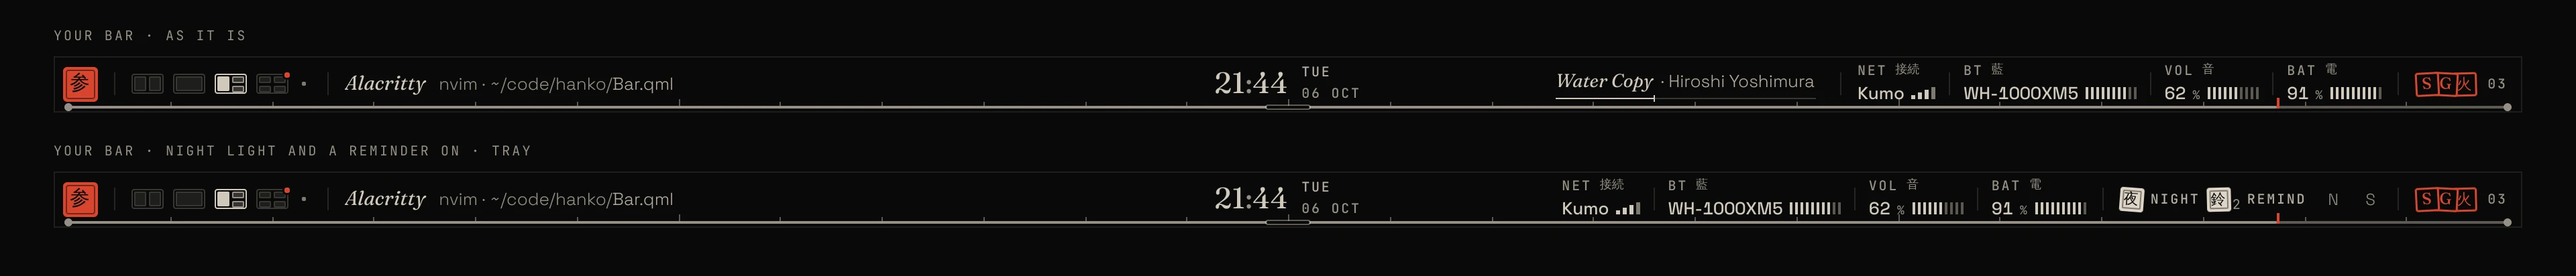
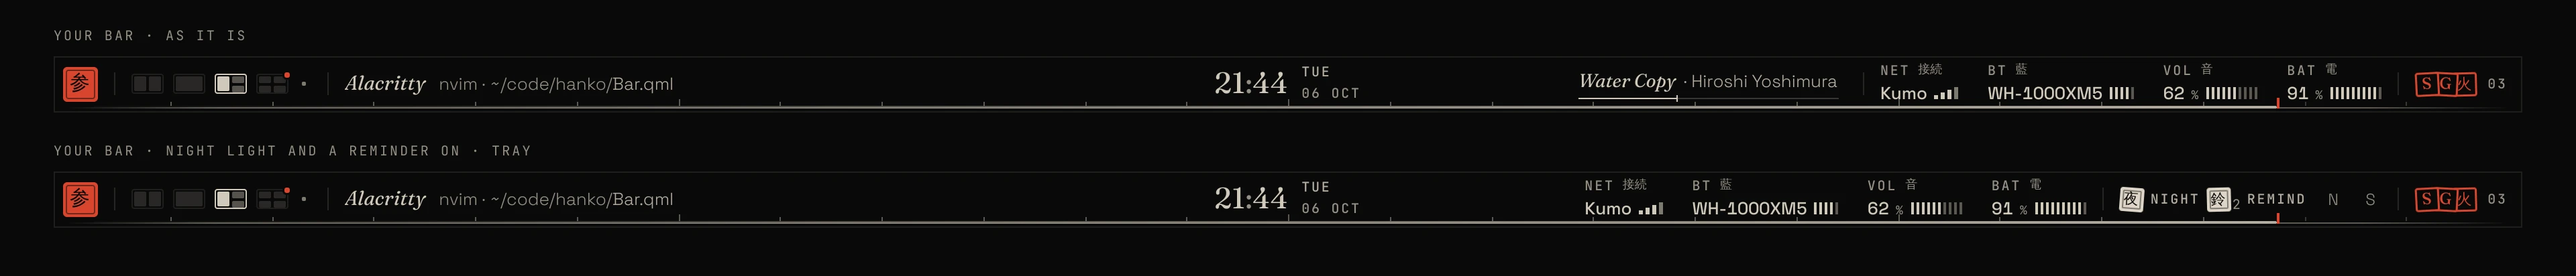
Bar, a more natural pass: ink-stroke day rule, readings grouped by space
The rodrule's hours to come are a hairline that fades at both ends and
the spent day is one stroke darkening toward now; ticks ahead are
lighter and the grip shows only when reached for. Readings sit as one
group held by space instead of hairlines, the BT meter is half length,
and workspace windows are solid tiles without outlines.

Claude-Session: https://claude.ai/code/session_01Tp9gk1FgjZsMjeqrzW7SN3

diff --git a/bar/Edge.qml b/bar/Edge.qml
@@ -107,19 +107,42 @@ Item {
       width: root.span.width
       height: 2
 
+      // rod: a roller, solid end to end. rodrule: the hours still to come
+      // are a hairline that thins away at both ends, so the bar's foot ends
+      // like a brush lifting, not like a cut.
       Rectangle {
+        visible: root.mode === "rod"
         anchors.fill: parent
         radius: 1
         color: drag.pressed ? Ink.ink : Ink.lineStrong
       }
+      Rectangle {
+        visible: root.mode === "rodrule"
+        y: 1
+        width: parent.width
+        height: 1
+        gradient: Gradient {
+          orientation: Gradient.Horizontal
+          GradientStop { position: 0; color: Ink.alpha(Ink.bone, 0) }
+          GradientStop { position: 0.06; color: drag.pressed ? Ink.ink : Ink.lineStrong }
+          GradientStop { position: 0.94; color: drag.pressed ? Ink.ink : Ink.lineStrong }
+          GradientStop { position: 1; color: Ink.alpha(Ink.bone, 0) }
+        }
+      }
 
-      // The spent part of the day, wound onto the rod.
+      // The spent part of the day as one stroke of ink: faint where the
+      // morning went by, darkest where it reaches now, as fresh ink is.
       Rectangle {
         visible: root.mode === "rodrule"
         width: E.at(root.dayFraction, rod.width, 0)
         height: rod.height
         radius: 1
-        color: Ink.inkMuted
+        gradient: Gradient {
+          orientation: Gradient.Horizontal
+          GradientStop { position: 0; color: Ink.alpha(Ink.bone, 0) }
+          GradientStop { position: 0.35; color: Ink.alpha(Ink.bone, 0.35) }
+          GradientStop { position: 1; color: Ink.inkDim }
+        }
       }
 
       Repeater {
@@ -131,13 +154,14 @@ Item {
           y: -height
           width: 1
           height: rodTick.modelData.major ? 5 : 3
-          color: Ink.lineStrong
+          // Hours not yet come are marked more lightly than those gone.
+          color: rodTick.modelData.fraction <= root.dayFraction ? Ink.lineStrong : Ink.line
         }
       }
 
-      // End caps.
+      // End caps (the roller only; rodrule's ends fade out instead).
       Repeater {
-        model: 2
+        model: root.mode === "rod" ? 2 : 0
         Rectangle {
           id: cap
           required property int index
@@ -159,8 +183,11 @@ Item {
       }
 
       // The grip: a small paper plate on the rod's centre that lifts when
-      // the pointer comes near.
+      // the pointer comes near. On the rodrule it only shows then: a handle
+      // you need when you reach for it, not one drawn all day.
       Rectangle {
+        opacity: root.mode === "rod" || drag.containsMouse || drag.pressed ? 1 : 0
+        Behavior on opacity { enabled: !Motion.still; NumberAnimation { duration: 160 } }
         x: Math.round((rod.width - width) / 2)
         y: drag.containsMouse || drag.pressed ? -3 : -1
         width: 34

diff --git a/bar/StatusRow.qml b/bar/StatusRow.qml
@@ -104,10 +104,12 @@ Item {
         // Cells are ruled off by hairlines; numerals by a middle dot.
         Item {
           visible: slot.index > 0 && root.mode !== "glyphs"
-          width: root.mode === "numerals" ? Type.px(20) : root.ruled ? Type.px(10) * 2 + 1 : Type.px(14)
+          // Readings are one group, held together by space (proximity), not
+          // fenced by lines: the bar's rules are kept for its zones.
+          width: root.mode === "numerals" ? Type.px(20) : root.mode === "cells" ? Type.px(22) : root.ruled ? Type.px(10) * 2 + 1 : Type.px(14)
           height: parent.height
           Rectangle {
-            visible: root.mode === "cells" && root.ruled
+            visible: false
             anchors.horizontalCenter: parent.horizontalCenter
             anchors.verticalCenter: parent.verticalCenter
             width: 1
@@ -346,7 +348,9 @@ Item {
     Ticks {
       anchors.verticalCenter: big.verticalCenter
       visible: root.ticksOn && value.r.level >= 0
-      count: root.tickCount
+      // A device's charge is a side note to its name: half a meter, so the
+      // BT cell doesn't outweigh the volume and battery it sits with.
+      count: value.r.key === "bluetooth" ? Math.round(root.tickCount / 2) : root.tickCount
       level: value.r.level
     }
     SignalBars {

diff --git a/bar/Workspaces.qml b/bar/Workspaces.qml
@@ -175,7 +175,7 @@ Item {
         radius: 2
         color: "transparent"
         border.width: 1
-        border.color: lc.on ? Ink.ink : Ink.line
+        border.color: lc.on ? Ink.ink : Ink.lineSoft
 
         Repeater {
           model: lc.ws ? lc.ws.windows : []
@@ -187,9 +187,10 @@ Item {
             width: Math.max(1, Math.round(modelData.w * (frame.width - 2)) - 2)
             height: Math.max(1, Math.round(modelData.h * (frame.height - 2)) - 2)
             radius: 1
-            color: live && modelData.focused ? Ink.ink : live ? Ink.alpha(Ink.ink, 0.22) : Ink.lineSoft
-            border.width: 1
-            border.color: live && modelData.focused ? Ink.ink : live ? Ink.inkMuted : Ink.line
+            // Windows are solid tiles, not outlined boxes: the page you are
+            // on in ink, the others a faint print of their layout.
+            color: live && modelData.focused ? Ink.ink : live ? Ink.alpha(Ink.ink, 0.38) : Ink.alpha(Ink.ink, 0.16)
+            border.width: 0
           }
         }
       }

diff --git a/docs/HANDOFF.md b/docs/HANDOFF.md
@@ -2,7 +2,7 @@
 
 This file is the single source a new Claude session (or a person) reads to pick up Hanko exactly where it was left. It covers the brief, every branch, the design, the Omarchy plugin contract, the code, the dev environment, the conventions, what each finished phase built, and detailed instructions for every remaining phase.
 
-Last updated: 2026-10-08, after the bar's game-HUD feedback (counters, meters, change highlight), following the Classic bar's polish. Kata K1–K7 are done; next is testing it all on hardware (§12) and whatever the user asks for.
+Last updated: 2026-10-08, after the bar's natural pass (ink-stroke rodrule, grouped readings, tile workspaces), following its game-HUD feedback. Kata K1–K7 are done; next is testing it all on hardware (§12) and whatever the user asks for.
 
 **Read order for a fresh session:** this file, then [ROADMAP.md](ROADMAP.md), then [COMPONENTS.md](COMPONENTS.md) (the full spec of every option), then the code. Keep this file current: update §9 (status) and §12 (known issues) at the end of every phase, in the same commit.
 
@@ -701,6 +701,13 @@ What was taken from game UI (Ghost of Tsushima's minimal HUD, Persona and Metaph
 - **Needs you, twice**: a red reading (low battery, offline) also breathes slowly (opacity 1 ↔ 0.5, 1.1 s each way), so it isn't told by colour alone.
 - **Fix**: `SignalBars` anchored each bar to a parent a Repeater hadn't given it yet (a warning per bar, on every bar build); they are placed by `y` now.
 - **Test**: `tests/motion.py` drives `tests/harness/scenes/MotionProbe.qml` with motion on (renders are end frames) and checks that 40 → 62 passes through the numbers, lands on 62, a word fades through, and nothing warns. `tests/run` runs it, `--quick` too.
+
+### Bar, a more natural pass ✅ (asked for: "more research, make it look more natural and premium; position and style may change")
+Research behind it: NN/g on grouping by proximity instead of borders, Japanese *ma* and *kanso* in UI (space as an element, keep only what serves), menu-bar and ricing practice (one accent, reduced chrome), and game HUDs (show on demand). Changes, all Classic:
+- **Rodrule as ink** (`Edge.qml`): the hours to come are a 1 px hairline with 6% fades at both ends (no end caps on the rodrule; `rod` keeps its roller and caps); the spent part is a 2 px stroke going from nothing at midnight to `inkDim` at the now-notch; ticks ahead of now are `line`, behind it `lineStrong`; the grip appears only on hover or drag (still always on `rod`).
+- **Readings as one group** (`StatusRow`): in `cells` mode the hairlines between NET, BT, VOL, BAT are gone and a 22 px gap holds them (the zones' dividers stay, per `rules`). The BT cell's charge meter is half length.
+- **Workspace tiles** (`Workspaces` layout): windows are solid tiles (focused ink, others 38% on the active page, 16% elsewhere) without outlines; an inactive page's frame is `lineSoft`.
+- Harness `my-bar-light.json`; images `docs/revision2/images/r2-bar.webp`, `r2-bar-light.webp`.
 
 ## 10. Instructions for the remaining phase (10)
 

diff --git a/docs/ROADMAP.md b/docs/ROADMAP.md
@@ -116,6 +116,7 @@ Spec: `docs/kata/README.md` (also on `revision1`). Margin, Leaf and Shōji becom
 - ✅ **Revision 2 · Classic polished** (`d565381`, made on `revision2` and merged into `dev`; asked for: polish Classic as a senior would, without redesigning it): Classic's sheets get a folio and a faint kanji behind the title, an italic standfirst, underscored group heads, a hover bar on rows, a capped needle, a soft shadow, printer's crop marks, a colophon foot, and Time's ribbon without its doubled rule and with a red notch on today.
 - ✅ **Classic bar polish** (asked for on the user's own style): kanji indicator seals in ink with red kept for recording, tabular figures on readings and the clock, shorter softer rules, hover plates on cells, a visible urgent dot, and a fix for the blank the tray left beside the marks.
 - ✅ **Bar feedback, after game HUDs**: readings count up to new values, meters fill tick by tick, a changed reading's label inks up for a moment, cells press, and a red reading also breathes. `tests/motion.py` checks the motion.
+- ✅ **Bar, a more natural pass**: the rodrule drawn as a stroke of ink that fades at its ends and darkens toward now, readings grouped by space instead of hairlines, a half-length BT meter, workspace windows as solid tiles, and the rod's grip shown only when you reach for it.
 - ✅ **K7 · Settings › Design 意匠** (asked for without a Save button): the rail's first Bar page. Four design cards, each with its bar drawn live (Classic the Typeset bar); the mix named in a line, Back to the design and Surprise me; twelve borrow rows, each variant drawn small by its own part (`bar/settings/PartPreview.qml`), the current one ringed and a borrowed part marked; the touches (season with today's sekki, numerals, grain). The whole settings window now saves as you go: `Typeset.keep()` after every edit, `Typeset.history` and `undo()` (Ctrl+Z and the action bar's Undo), forgotten on close; Save and Revert are gone. Harness `design-settings.json`, `-light`, `-narrow`.
 
 ## Dev loop

diff --git a/docs/COMPONENTS.md b/docs/COMPONENTS.md
@@ -109,7 +109,7 @@ The glyph used by `stamp` is a separate free-text setting, `sealGlyph` (印 力 
 
 | Option | What it does | From |
 |---|---|---|
-| **`cells`** (default) | `NET 接続 / VOL 音 / BAT 電` label-over-value cells ruled off by hairlines. | Sheet |
+| **`cells`** (default) | `NET 接続 / VOL 音 / BAT 電` label-over-value cells, held together as one group by space alone (the zones keep their rules); a Bluetooth device's charge is a half-length meter. | Sheet |
 | `glyphs` | A boxed kanji is the icon and the number is the state. Solid red when it needs you; dashed when off. | Scroll |
 | `numerals` | Mono labels and numbers on one line (`VOL 62 · NET Kumo · BAT 91%`). | New |
 
@@ -171,7 +171,7 @@ The name is in the same ink as the icon styles (red only for a recording or live
 | `hairline` | A single hairline. | Sheet |
 | `dayrule` | A 24-hour ruler: hour ticks, longer every six hours, the spent part of the day brighter, a red now-notch. | Sheet |
 | `rod` | The scroll's roller with end caps and a centre grip. Hover raises the grip; drag down to unroll. | Scroll |
-| **`rodrule`** (default) | The roller carries the day: rod, ticks, spent part and now-notch together. | New |
+| **`rodrule`** (default) | The roller carries the day: the hours to come a hairline that thins out at both ends, the spent part one stroke of ink darkening toward the red now-notch, ticks lighter ahead of now, and the grip shown only when the pointer reaches for it. | New |
 
 #### Dividers `rules` 罫
 
